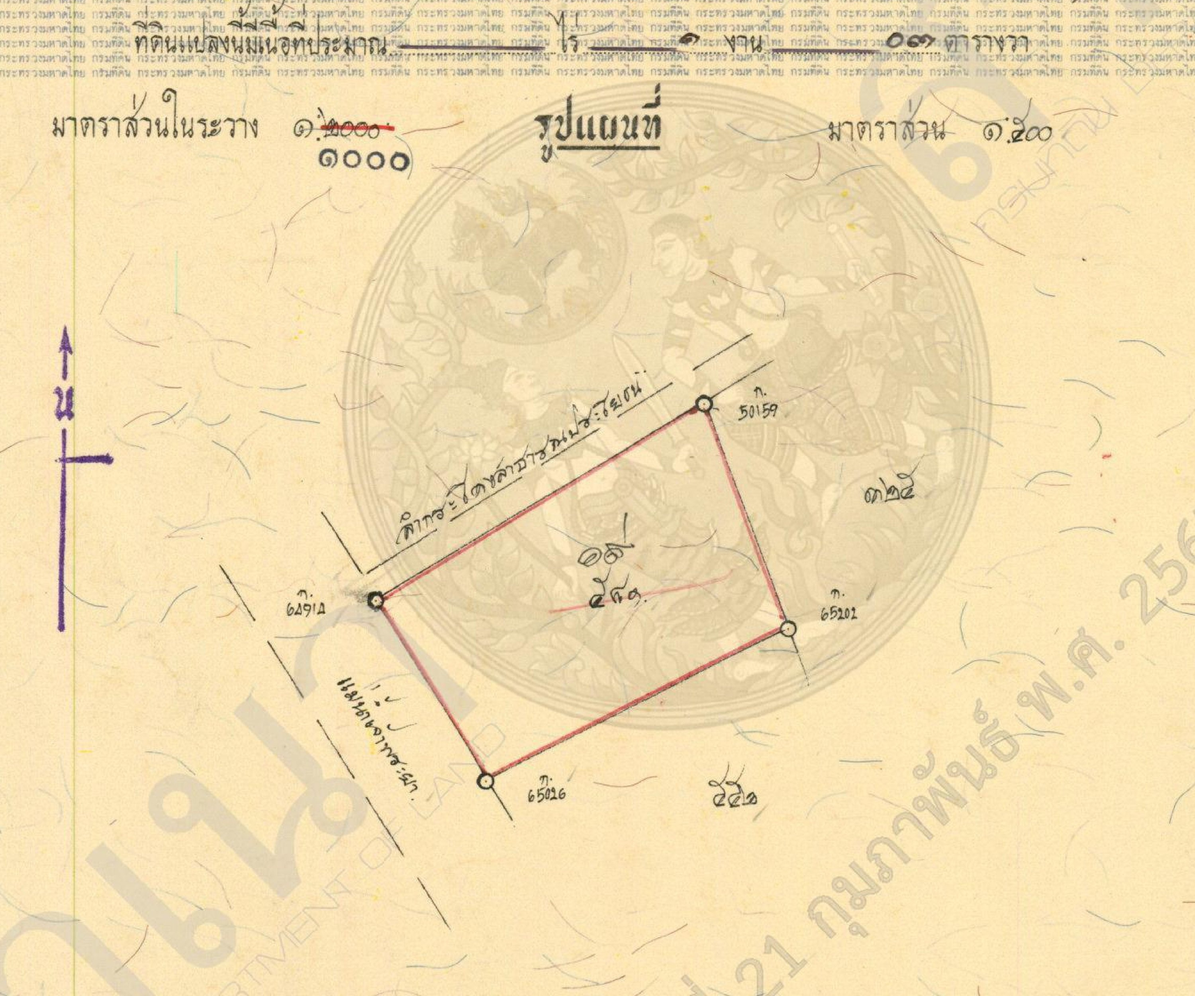
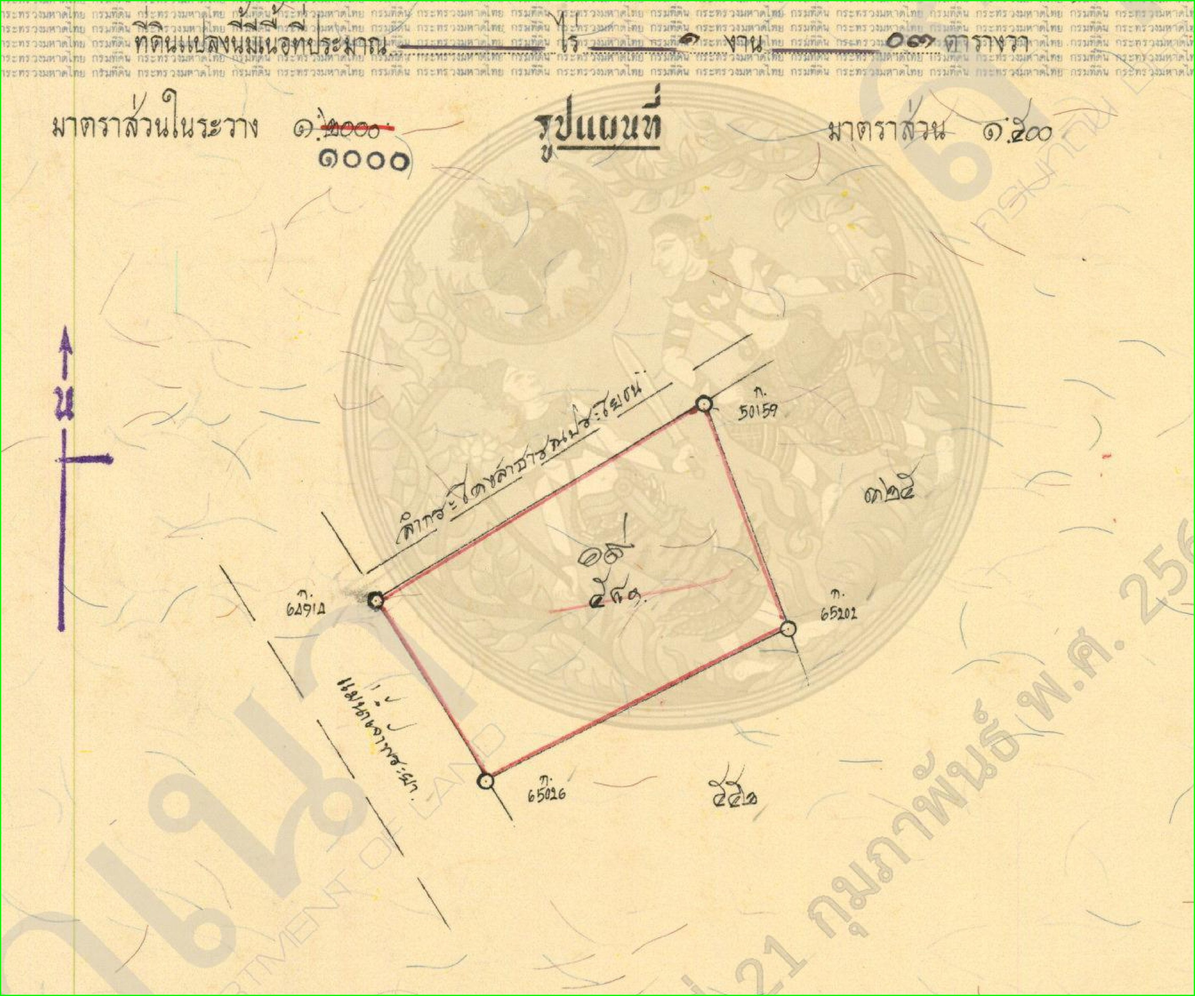
update clahe

Changed region(s): [[0.0, 0.0, 1.0, 1.0]]

diff --git a/cv_test/clahe.py b/cv_test/clahe.py
@@ -6,7 +6,8 @@ import numpy as np
 
 # Set the folder paths
 input_folder = '../images'  # Folder where original images are stored
-output_folder = '../contour2'  # Folder to save processed images with contours
+# Folder to save processed images with contours
+output_folder = '../research_results/cv_results/clahe'
 
 # Ensure the output folder exists
 if not os.path.exists(output_folder):
@@ -24,53 +25,68 @@ def process_image(image_path, output_folder):
         # Convert to grayscale
         gray = cv2.cvtColor(image, cv2.COLOR_BGR2GRAY)
 
-        # Step 1: Increase brightness to fade text (use CLAHE for contrast enhancement)
-        clahe = cv2.createCLAHE(clipLimit=2.0, tileGridSize=(8, 8))
+        # Step 1: CLAHE for contrast enhancement (tuned for better contrast)
+        # Increased clipLimit for better enhancement
+        clahe = cv2.createCLAHE(clipLimit=3.0, tileGridSize=(8, 8))
         enhanced = clahe.apply(gray)
 
         # Step 2: Apply adaptive thresholding to separate text from the background
-        _, thresh = cv2.threshold(
-            enhanced, 0, 255, cv2.THRESH_BINARY_INV + cv2.THRESH_OTSU)
+        # Adaptive thresholding for better separation
+        thresh = cv2.adaptiveThreshold(
+            enhanced, 255, cv2.ADAPTIVE_THRESH_GAUSSIAN_C, cv2.THRESH_BINARY_INV, 11, 2)
 
-        # Step 3: Use morphological transformations (dilation) to remove small noise and fill text regions
-        kernel = np.ones((3, 3), np.uint8)
-        dilated = cv2.dilate(thresh, kernel, iterations=2)
+        # Step 3: Denoising using morphological transformations (dilation)
+        # Use larger kernel size to help clean up regions
+        kernel = np.ones((5, 5), np.uint8)
+        dilated = cv2.dilate(thresh, kernel, iterations=3)
 
-        # Optional: Further denoise small noise
-        # You can apply Median Blur to reduce small noise further
-        denoised = cv2.medianBlur(dilated, 3)
+        # Optional: Further denoise small noise using Median Blur
+        denoised = cv2.medianBlur(dilated, 5)
 
-        # Step 4: OCR Text Detection
+        # Step 4: OCR Text Detection (mask out text regions)
         d = pytesseract.image_to_data(denoised, output_type=Output.DICT)
 
-        # Step 5: Mask text regions with stronger intensity (using the thresholded image)
-        mask = np.ones_like(gray) * 255  # Start with white canvas
-
+        # Mask text regions with stronger intensity (smaller masks for text)
         for i in range(len(d['text'])):
-            if int(d['conf'][i]) > 30 and len(d['text'][i].strip()) > 1:
+            if int(d['conf'][i]) > 30 and len(d['text'][i].strip()) > 1:  # Filter based on confidence
                 x, y, w, h = d['left'][i], d['top'][i], d['width'][i], d['height'][i]
-
-                # Use larger masking area to remove text
+                # Use smaller mask to remove text without affecting shape
                 cv2.rectangle(denoised, (x - 5, y - 5),
-                              (x + w + 5, y + h + 5), 255, -1)  # Enlarged mask
+                              (x + w + 5, y + h + 5), 255, -1)  # Smaller mask
 
-        # Step 6: Edge detection
-        edges = cv2.Canny(denoised, 30, 100)
-
-        # Step 7: Contour detection
+        # Step 5: Find contours (detection of potential land shapes)
         contours, _ = cv2.findContours(
-            edges, cv2.RETR_EXTERNAL, cv2.CHAIN_APPROX_SIMPLE)
+            denoised, cv2.RETR_EXTERNAL, cv2.CHAIN_APPROX_SIMPLE)
 
-        # Draw only large contours (filter out small text noise)
+        # Create a blank image to draw detected shapes
         output = image.copy()
+
+        # Filter out small contours and focus on larger shapes
         for cnt in contours:
             area = cv2.contourArea(cnt)
-            # Adjust this threshold as needed to remove small contours (noise)
-            if area > 100:
-                cv2.drawContours(output, [cnt], -1, (0, 255, 0), 2)
+            if area > 5000:  # Larger area threshold to ignore text and noise
+                # Draw only large contours
+                cv2.drawContours(output, [cnt], -1, (0, 255, 0), 3)
 
-        # Save the output image with contours
-        output_name = os.path.join(output_folder, f"polygon_{image_name}.jpg")
+        # Step 6: Connected component analysis (to further clean up)
+        # Create a binary mask for connected components analysis
+        binary_mask = np.zeros_like(gray)
+        cv2.drawContours(binary_mask, contours, -1, 255, thickness=cv2.FILLED)
+
+        # Find connected components in the binary mask
+        num_labels, labels, stats, centroids = cv2.connectedComponentsWithStats(
+            binary_mask, connectivity=8)
+
+        # Step 7: Filter out small components and keep only the land shape
+        for i in range(1, num_labels):  # Skip label 0, which is the background
+            x, y, w, h, area = stats[i]
+            if area > 5000:  # Adjust this area threshold to focus on the land shape
+                # Draw the bounding box for each connected component
+                cv2.rectangle(output, (x, y), (x + w, y + h), (0, 255, 0), 2)
+
+        # Save the output image with detected land shape
+        output_name = os.path.join(
+            output_folder, f"polygon_{image_name}.jpg")
         cv2.imwrite(output_name, output)
 
         print(f"Processed and saved result for: {image_path}")
